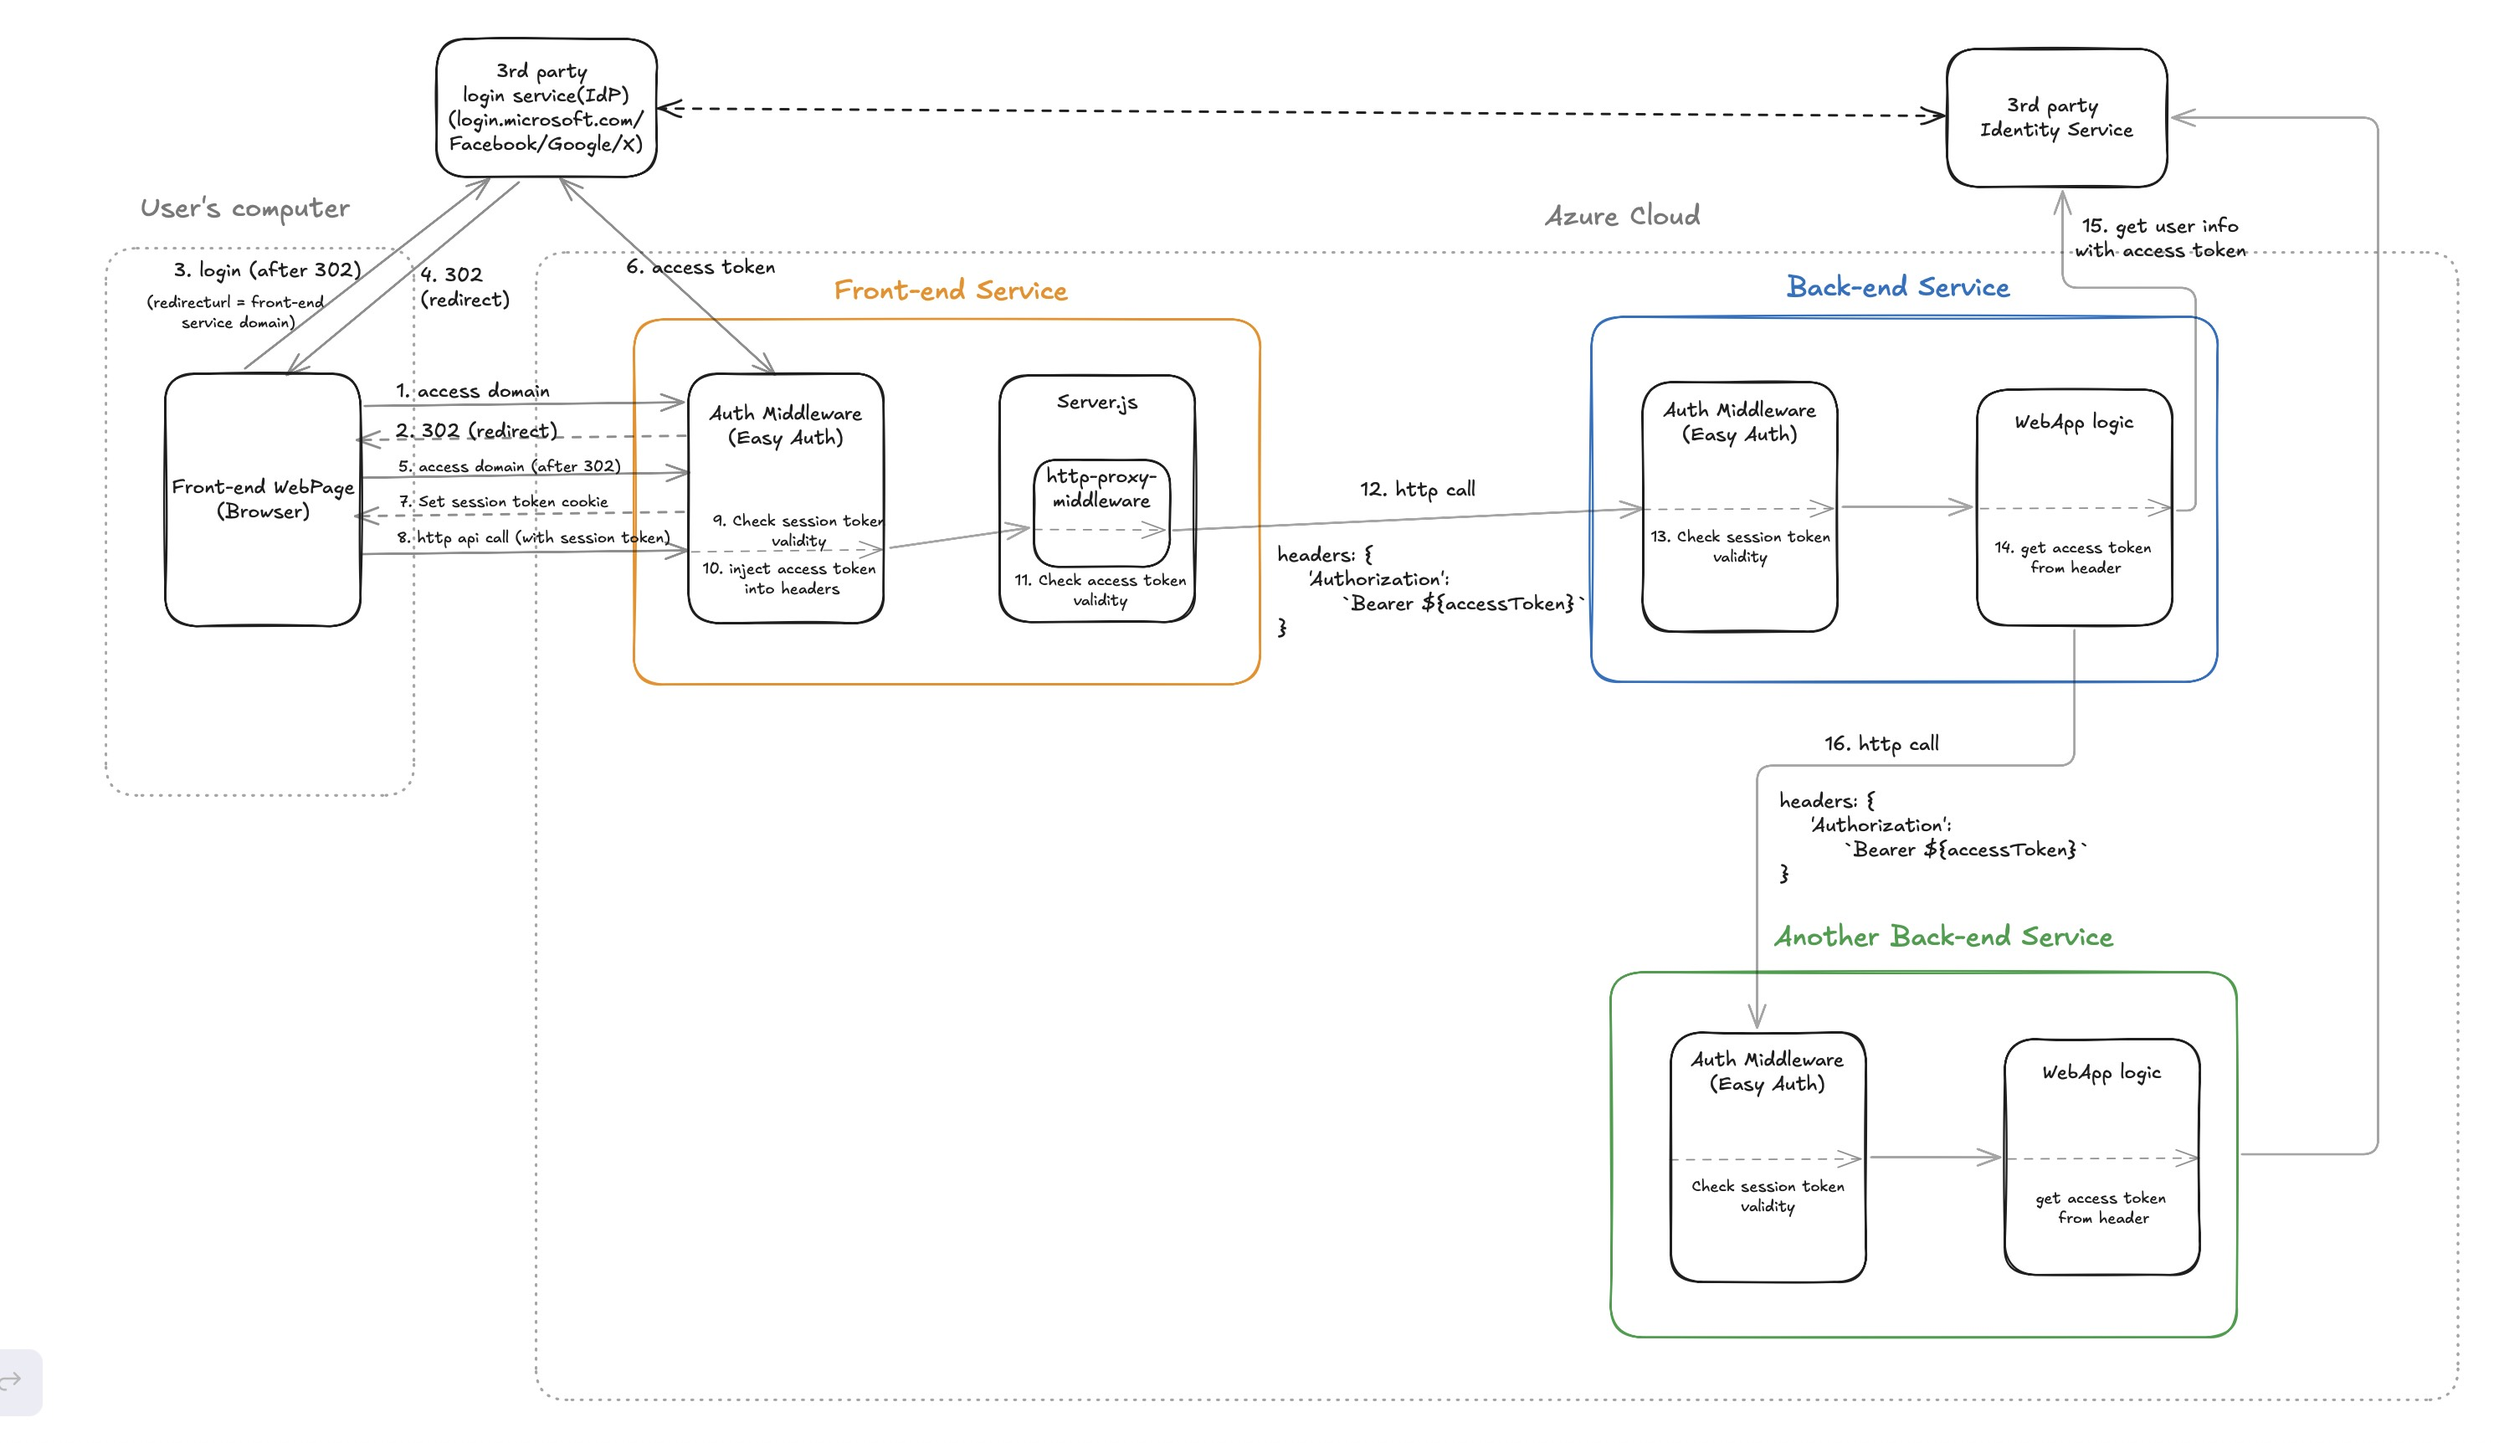
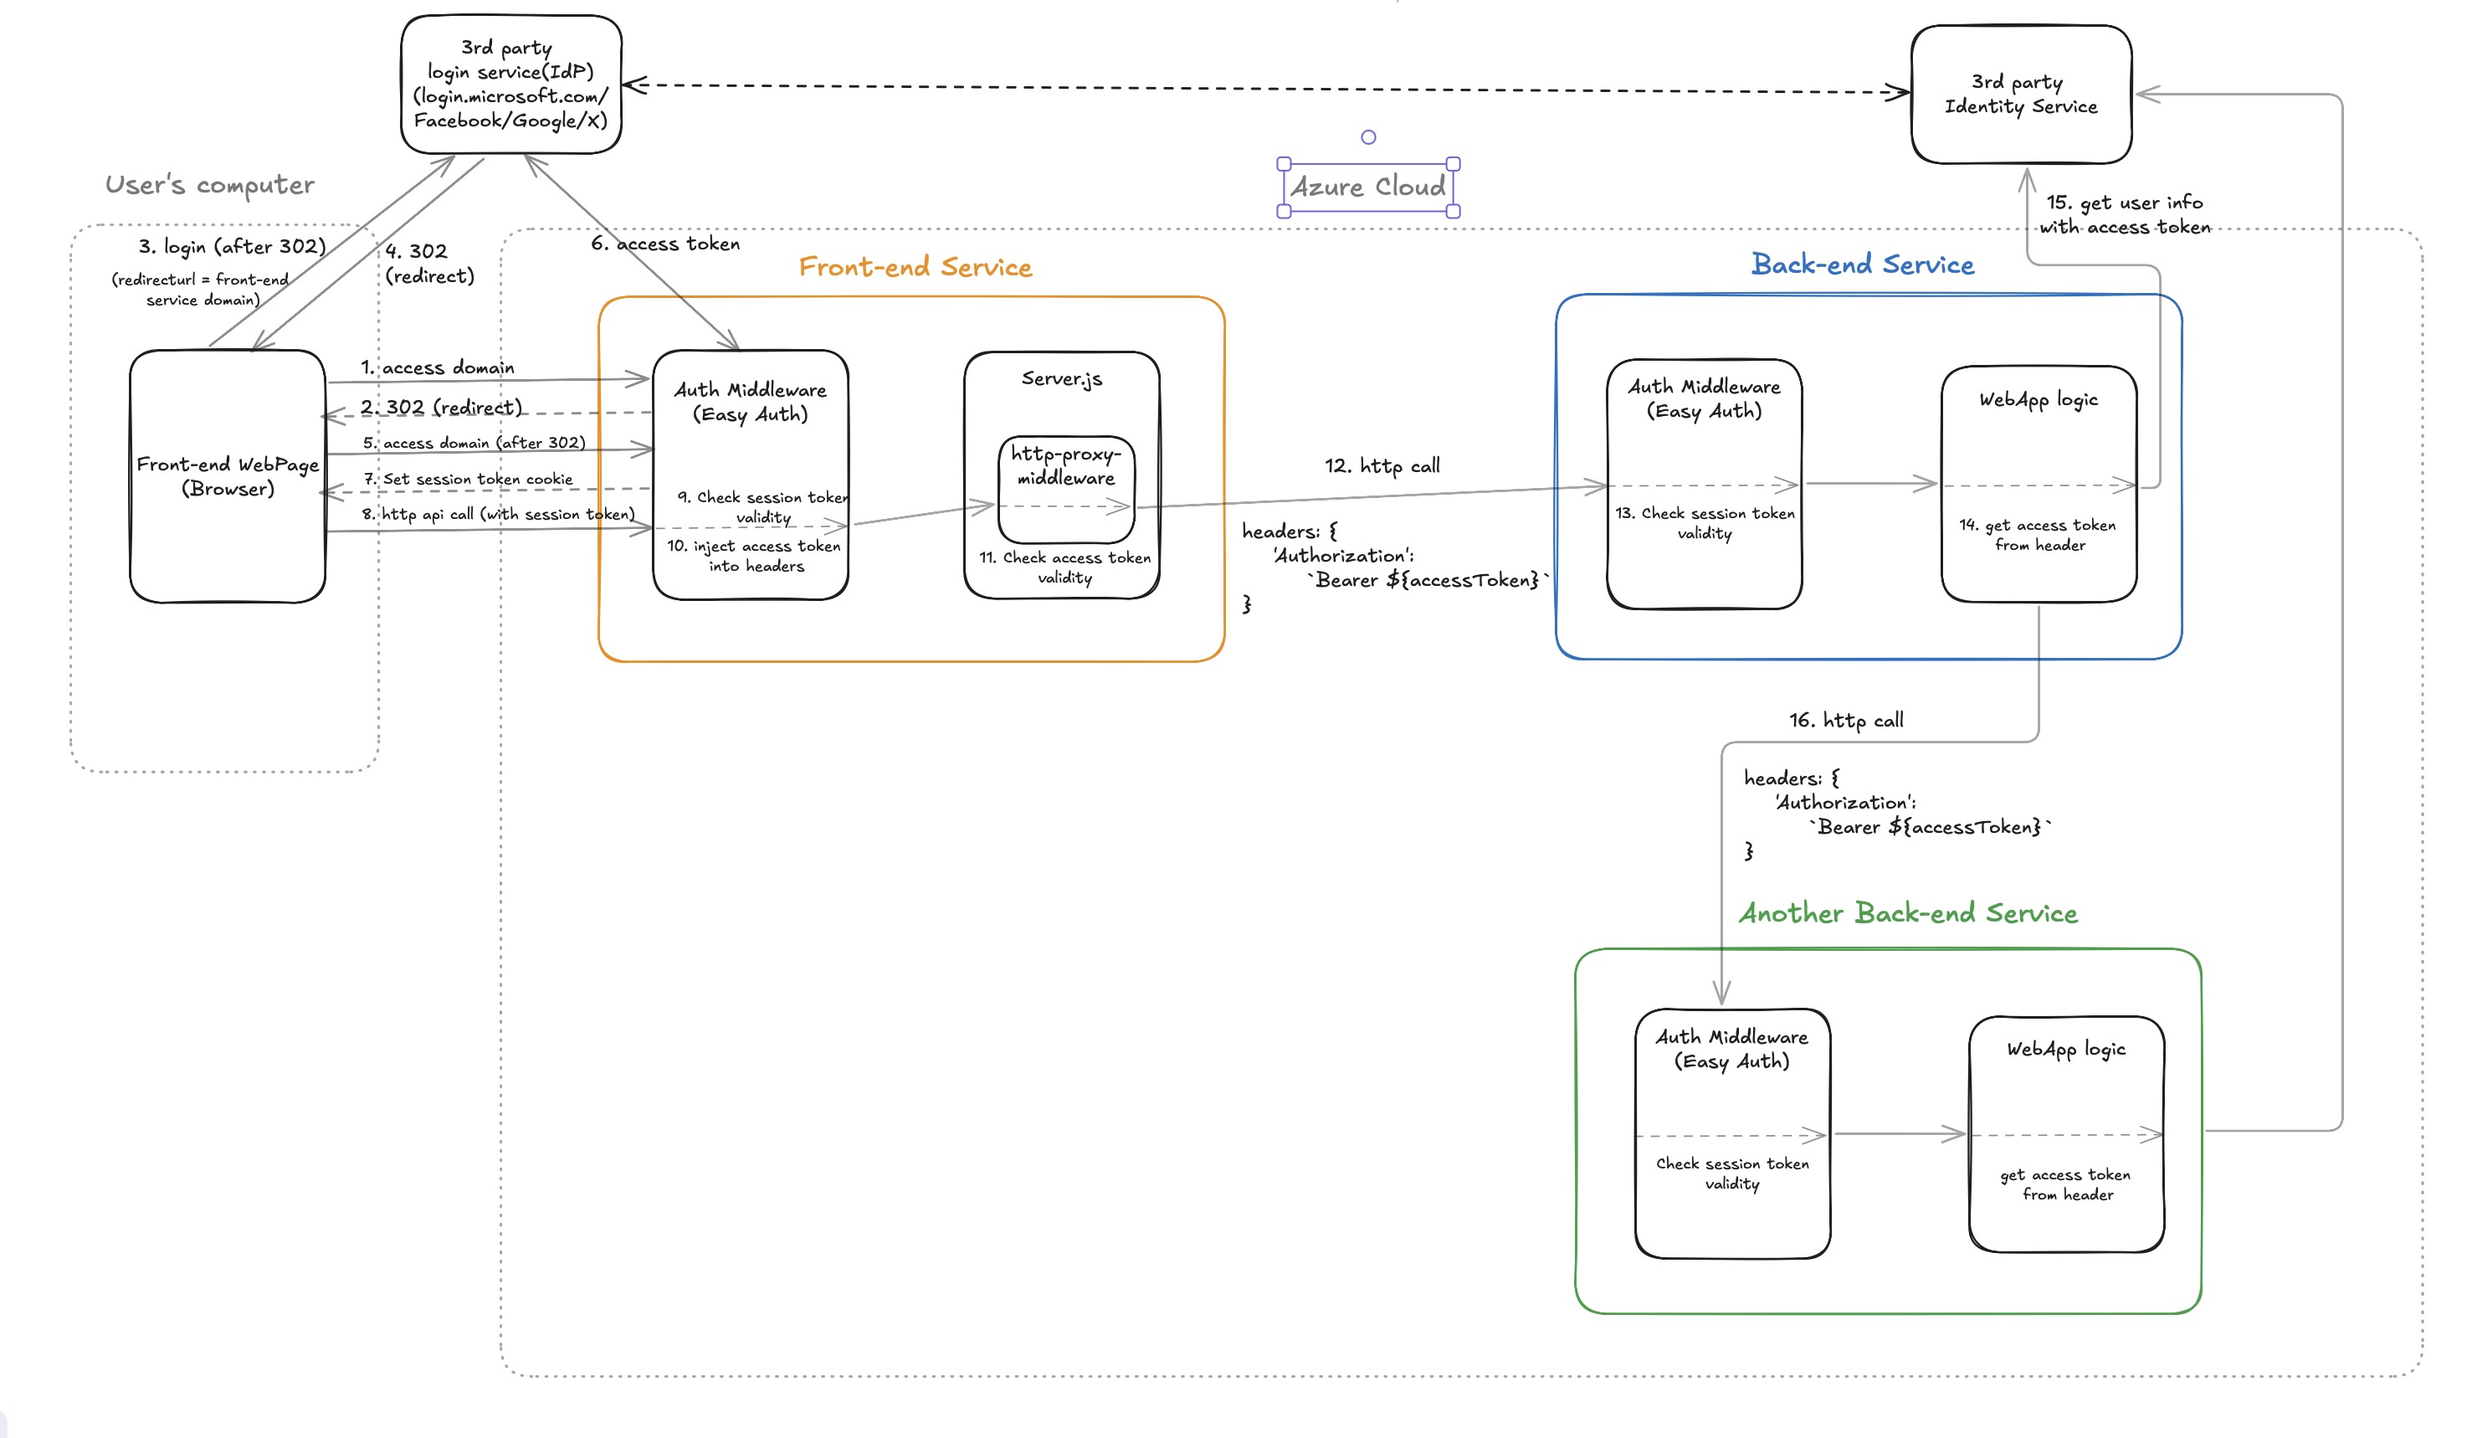
no message

diff --git a/_posts/2025-03-18-azure-easy-auth.md b/_posts/2025-03-18-azure-easy-auth.md
@@ -127,6 +127,8 @@ tags: [FrontEnd, Web, Azure, OAuth]
 
 ### Access Token 过期后刷新的逻辑
 
+![sequence]({{ "/assets/images/2025-03-20/refresh.jpg" | absolute url }})
+
 ### 关于通过将 key store 从 file 修改为 blob 来规避多个 instance 下 accesskey 不同步问题的文档
 
 <https://stackoverflow.com/questions/69385054/azure-app-service-authentication-token-not-refreshing-after-calling-auth-refre>
